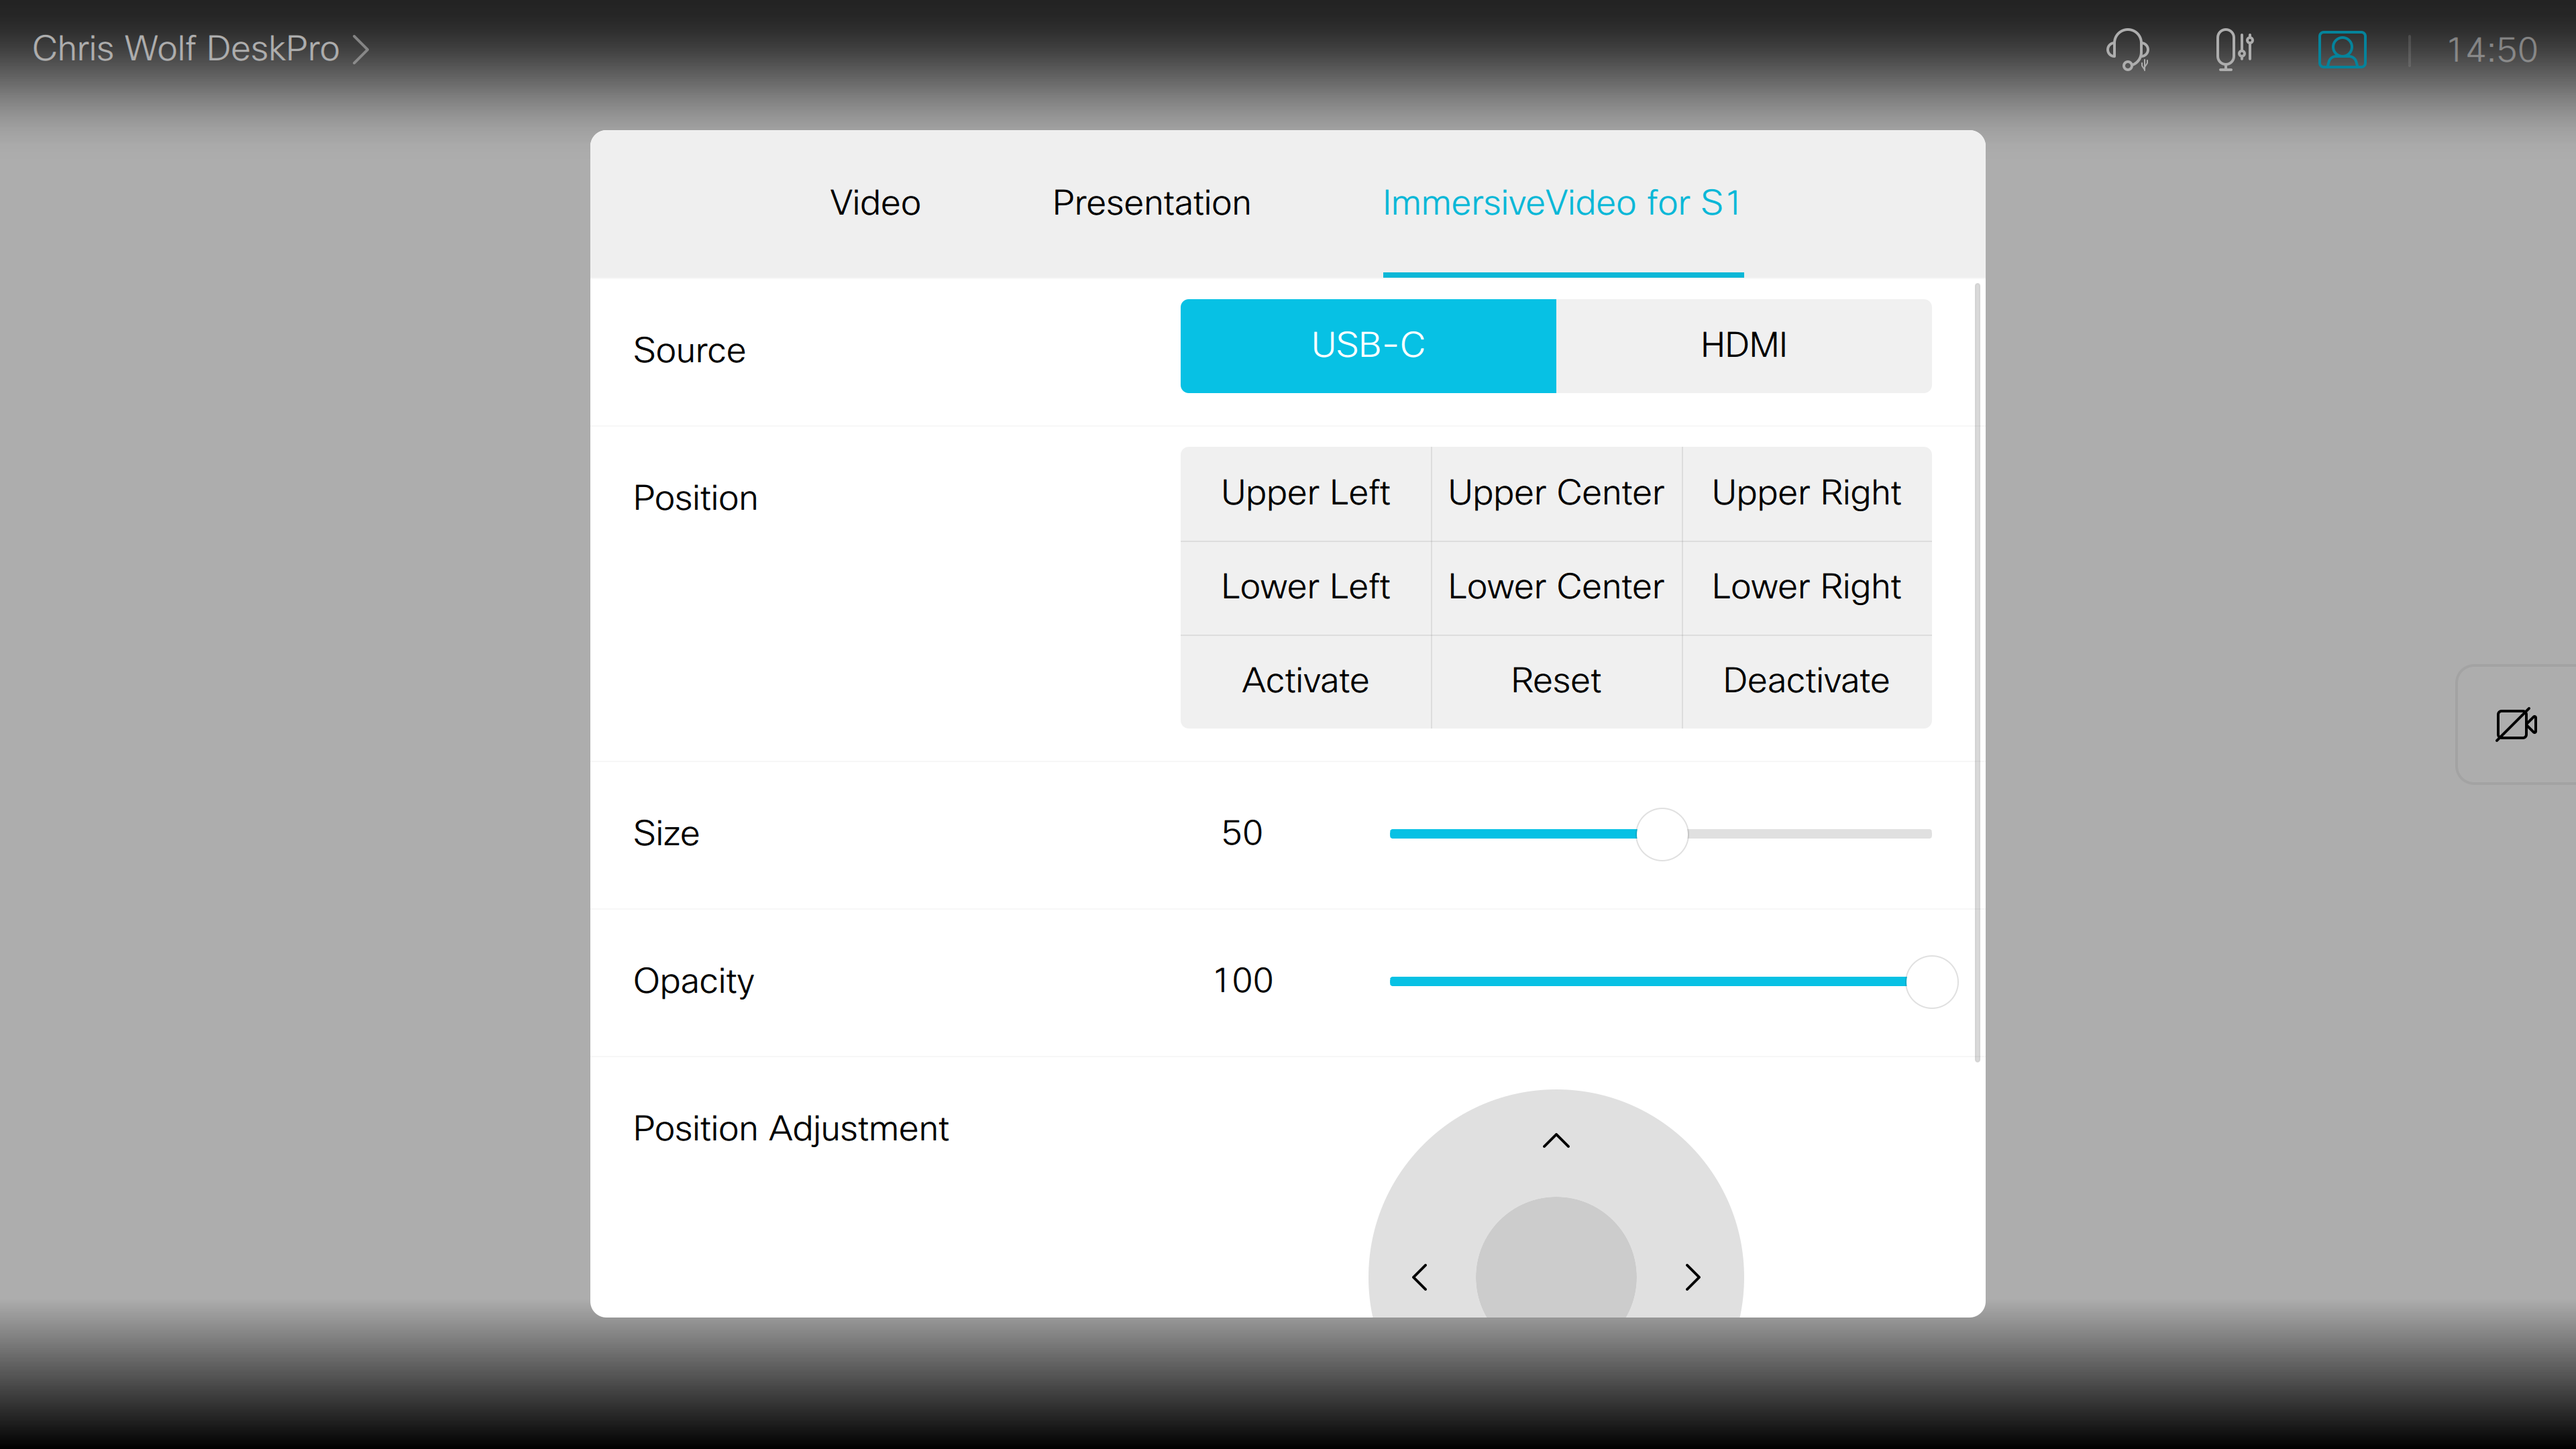
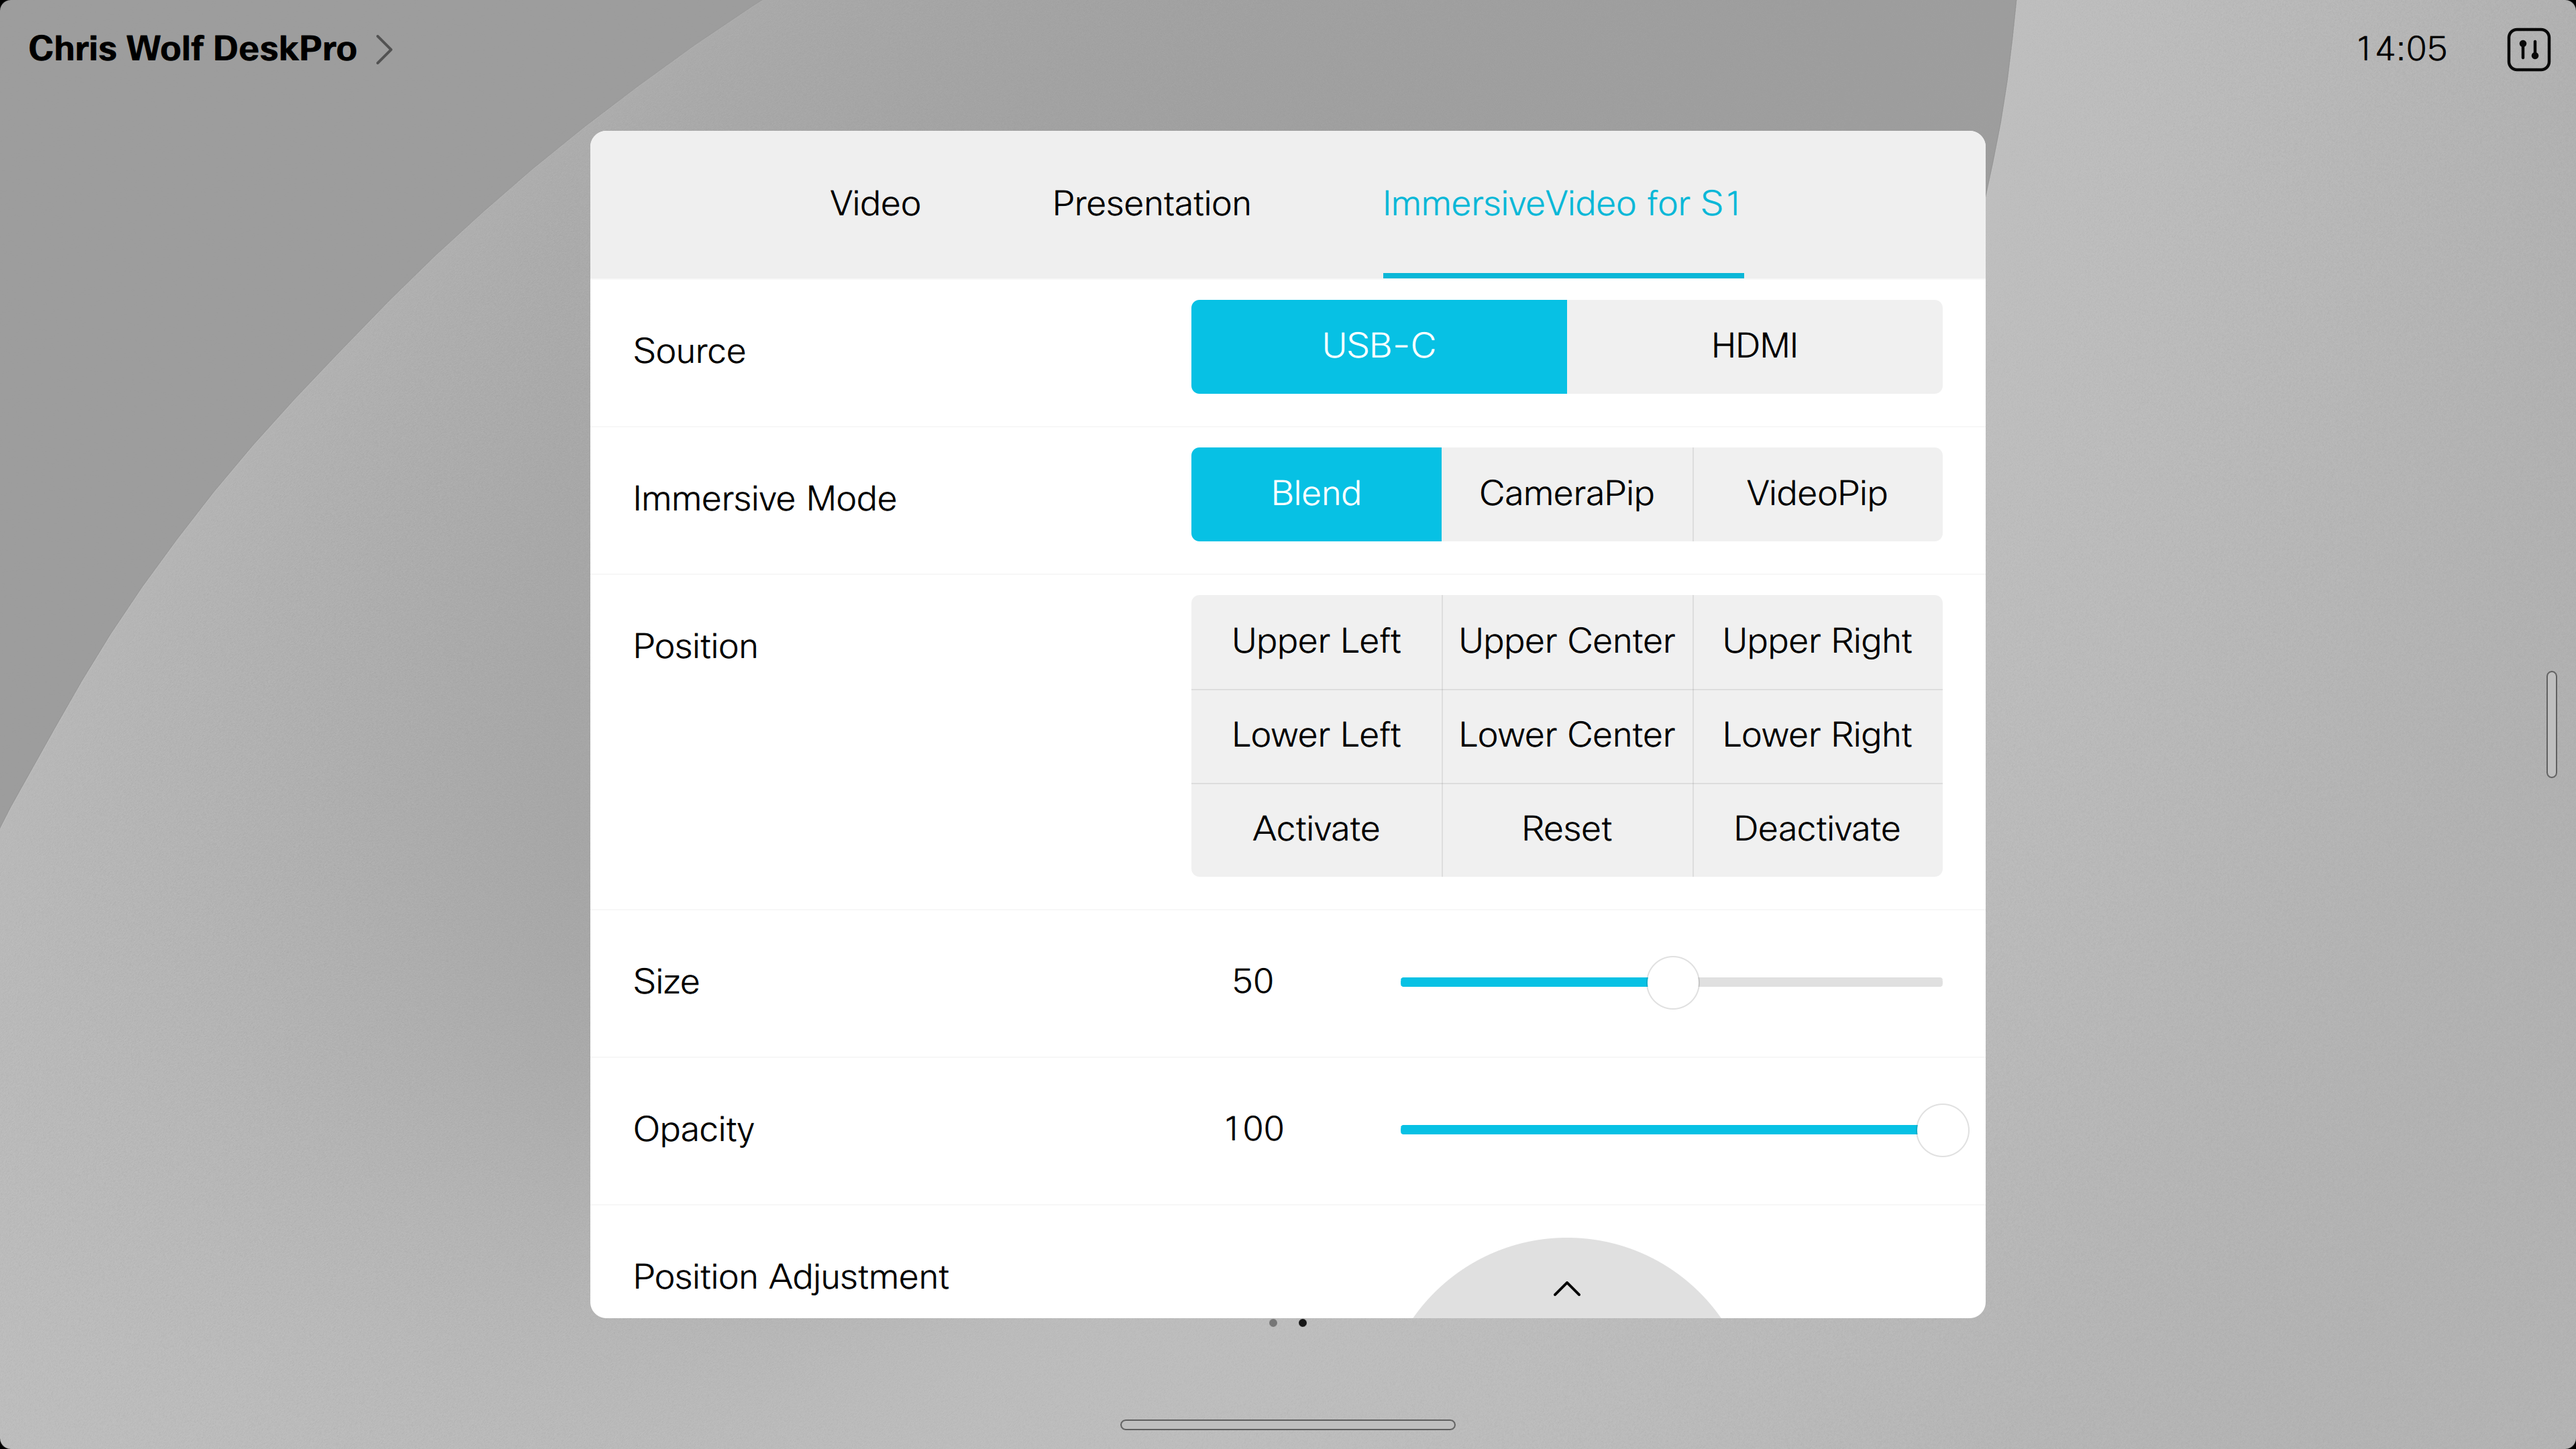
code fixes and Immersive Mode added

diff --git a/DeskPro_ImmersiveVideo/DeskPro_ImmersiveVideo.js b/DeskPro_ImmersiveVideo/DeskPro_ImmersiveVideo.js
@@ -27,6 +27,7 @@ import xapi from 'xapi';
 // Standard position for immersive share, bottom right in half size and full opacity
 let immersiveVideoParams = {X: 8000, Y: 7500, Scale: 50, Opacity: 100};
 let source = 'UsbC';
+let immersiveMode = 'Blend';
 let backgroundImage;
 let backgroundMode;
 let isImmersiveVideo = false;
@@ -36,10 +37,10 @@ const maxMovement = 2500;
 
 
 // Updates Source UI
-function updateSourceUI(source) {
+function updateSourceModeUI(widget, lable) {
   xapi.command('UserInterface Extensions Widget SetValue', {
-    WidgetId: 'source_immersiveVideo',
-    Value: source
+    WidgetId: widget+'_immersiveVideo',
+    Value: lable
   });
 };
 
@@ -77,7 +78,7 @@ function unsetGUIValue(guiId) {
 // Set immersive Video
 function immersiveVideo(x = immersiveVideoParams.X, y = immersiveVideoParams.Y, scale = immersiveVideoParams.Scale, opacity = immersiveVideoParams.Opacity) {
   isImmersiveVideo = true;
-  immersiveVideoParams = { X: x, Y: y, Scale: scale, Opacity: opacity };
+  immersiveVideoParams = {X: x, Y: y, Scale: scale, Opacity: opacity, Composition: immersiveMode};
   xapi.command('Cameras Background Set', { Mode: source });
   xapi.command('Cameras Background ForegroundParameters Set', immersiveVideoParams);
 };
@@ -90,7 +91,8 @@ function disableImmersiveVideo() {
 };
 
 xapi.on('ready', () => {
-  updateSourceUI(source);
+  updateSourceModeUI('source', source);
+  updateSourceModeUI('immersiveMode', immersiveMode);
   updateSliderUI('size', immersiveVideoParams.Scale);
   updateSliderUI('opacity', immersiveVideoParams.Opacity);
   updateSliderUI('posAdjustment', positionMovement);
@@ -99,6 +101,8 @@ xapi.on('ready', () => {
 
 // Event if Background Image or Mode has been changed
 xapi.status.on('Cameras Background', (event) => {
+  //!!!!  code to be checked? !!!
+  console.log(event)
   if (!isImmersiveVideo) {
     if (event['Image']) {backgroundImage = event['Image']; }
     else {backgroundMode = event['Mode']; };
@@ -109,8 +113,11 @@ xapi.event.on('UserInterface Extensions Widget Action', (event) => {
   if (event.WidgetId.includes('_immersiveVideo')) {
     // Event to change source for immersive Video
     if (event.WidgetId === 'source_immersiveVideo') {
-      source = event.Value
-      if (isImmersiveVideo) {immersiveVideo()};
+      source = event.Value;
+    }
+    // Event to change mode for immersive Video
+    else if(event.WidgetId === 'immersiveMode_immersiveVideo') {
+      immersiveMode = event.Value;
     }
     // Event on Sliders to update UI and ImmersiveVideo
     else if (event.WidgetId.includes('Slider_immersiveVideo') && event.Type === 'changed') {
@@ -122,12 +129,10 @@ xapi.event.on('UserInterface Extensions Widget Action', (event) => {
           lable = Math.round(event.Value * maxSizeOpacity / 255);
           if (lable == 0) {lable = 1};
           immersiveVideoParams.Scale = lable;
-          if (isImmersiveVideo) {immersiveVideo()};
           break;
         case 'opacitySlider_immersiveVideo':
           lable = Math.round(event.Value * maxSizeOpacity / 255);
           immersiveVideoParams.Opacity = lable;
-          if (isImmersiveVideo) {immersiveVideo()};
           break;
         case 'posAdjustmentSlider_immersiveVideo':
           lable = Math.round(event.Value * maxMovement / 255 / 100) * 100;
@@ -194,8 +199,8 @@ xapi.event.on('UserInterface Extensions Widget Action', (event) => {
         default:
           //do nothing
       };
-      if(isImmersiveVideo) {immersiveVideo()};
     };
   };
+  if(isImmersiveVideo) {immersiveVideo()};
 });
 
